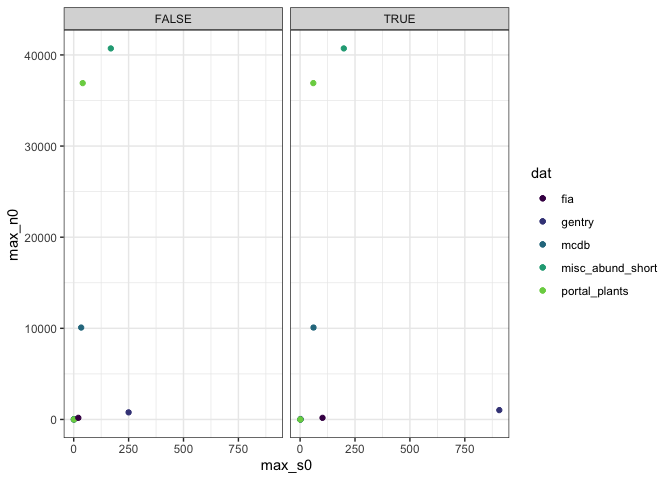
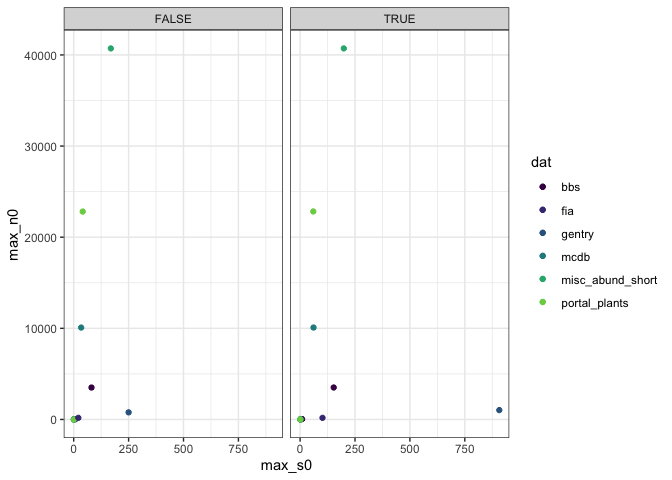
dataset intersection report, increase bbs memory

Changed region(s): [[0.7812, 0.3125, 0.9688, 0.6562], [0.125, 0.7812, 0.1562, 0.8125]]

diff --git a/analysis/reports/compare_datasets.md b/analysis/reports/compare_datasets.md
@@ -1,0 +1,16 @@
+Between-dataset comparisons
+================
+
+Overall dataset spaces
+----------------------
+
+![](compare_datasets_files/figure-markdown_github/overall%20spaces-1.png)
+
+Extremes by dataset
+-------------------
+
+Here are the spaces occupied by each dataset ![](compare_datasets_files/figure-markdown_github/statevars-1.png)
+
+![](compare_datasets_files/figure-markdown_github/intersection%20plot-1.png) I don't trust that occupancy. Here's another approach.
+
+![](compare_datasets_files/figure-markdown_github/new%20occupancy-1.png)
